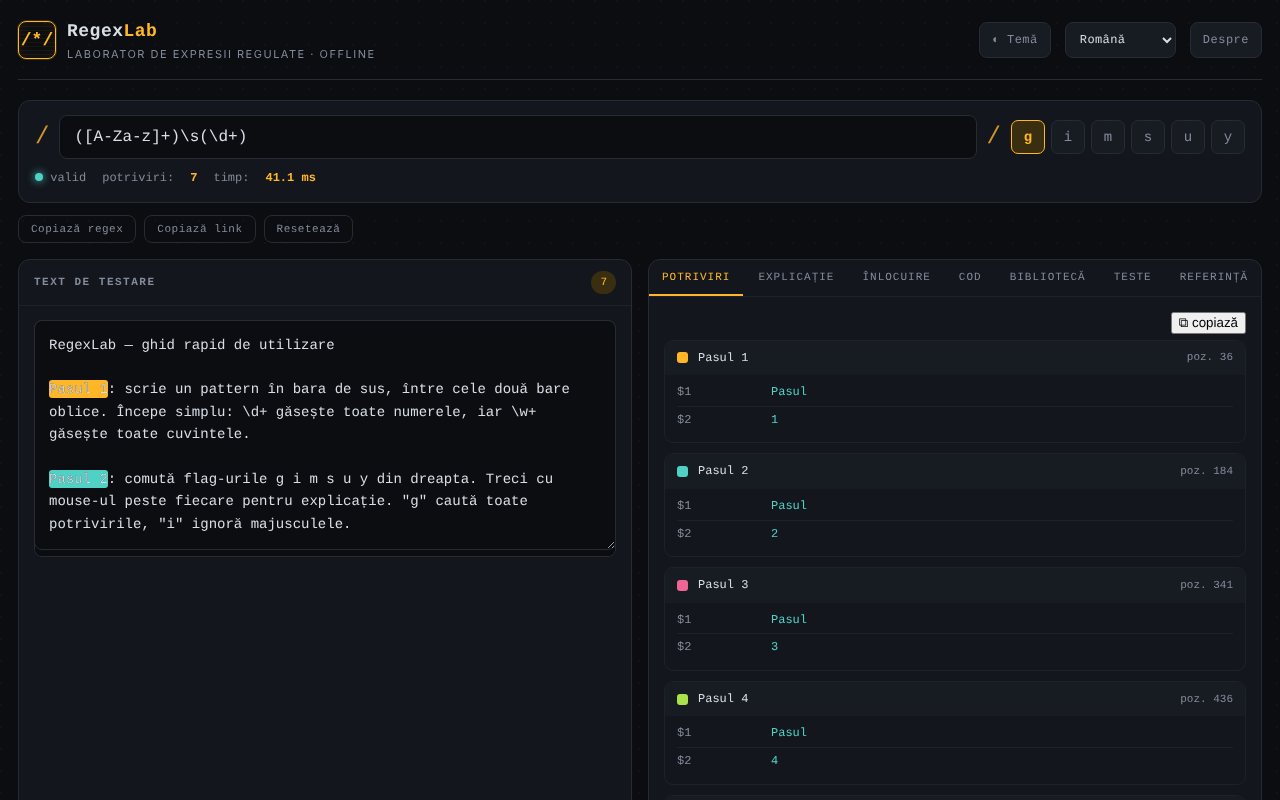
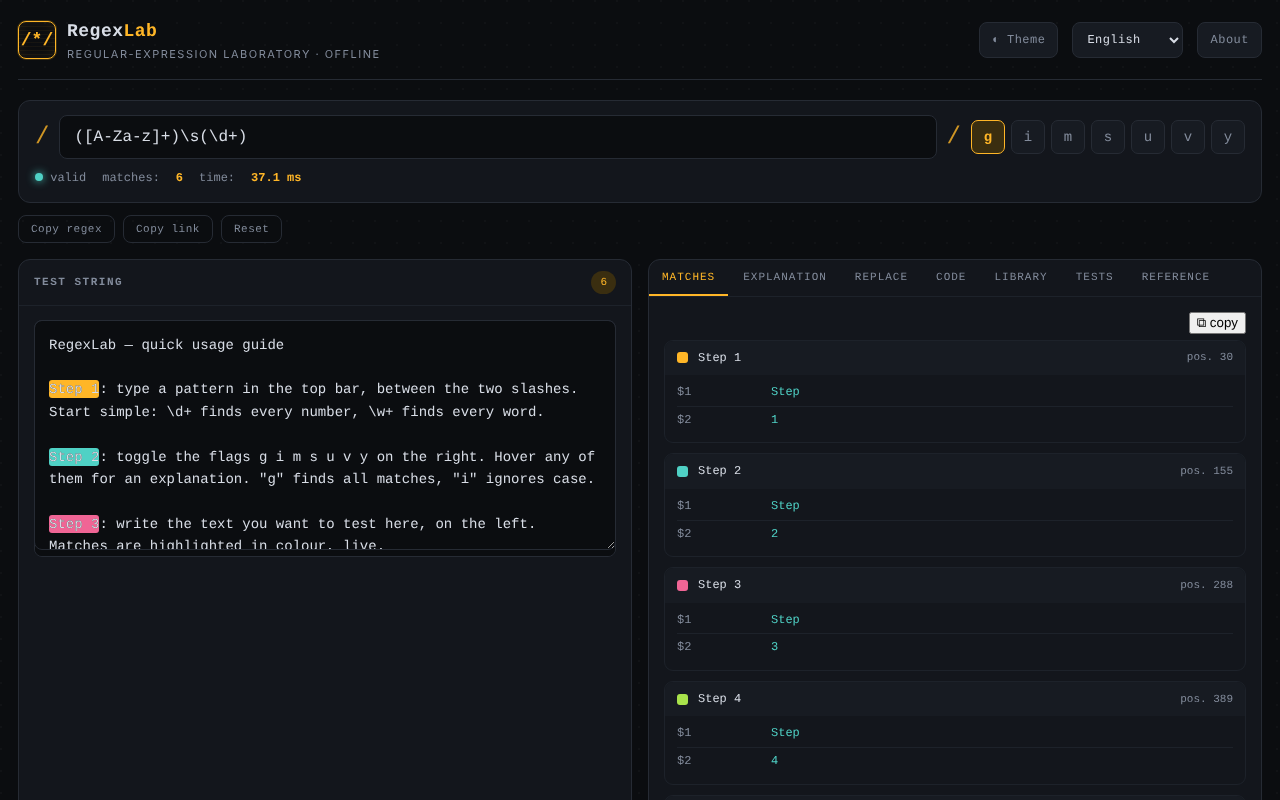
Runda 7 (11 octombrie 2026): defecte noi reparate, hash CSP, îmbunătățiri
Claude-Session: https://claude.ai/code/session_01D2sCEb3hy3nutYexhUfQFs

diff --git a/index.html b/index.html
@@ -28,7 +28,7 @@
 /* Accesibilitate: inel de focus vizibil pentru navigare la tastatură. */
 :focus-visible{outline:2px solid #4a90d9;outline-offset:2px;border-radius:2px}
 </style>
-  <meta http-equiv="Content-Security-Policy" content="default-src 'self'; img-src 'self' data: blob:; style-src 'self' 'unsafe-inline'; font-src 'self' data:; media-src 'self' blob: data:; object-src 'none'; base-uri 'self'; form-action 'self'; worker-src 'self' blob:; script-src 'self' blob: 'sha256-u4oEGoVapwmc1cid3ZVII85xoBo6RU0GowEWWCmSqxY='; connect-src 'self'">
+  <meta http-equiv="Content-Security-Policy" content="default-src 'self'; img-src 'self' data: blob:; style-src 'self' 'unsafe-inline'; font-src 'self' data:; media-src 'self' blob: data:; object-src 'none'; base-uri 'self'; form-action 'self'; worker-src 'self' blob:; script-src 'self' blob: 'sha256-eocbdYZp4ghRezitMZ6vgv1GVEgu/4rnRg8pHjTLSqg='; connect-src 'self'">
 <meta name="viewport" content="width=device-width, initial-scale=1.0">
 <title>RegexLab — regular-expression laboratory</title>
 <meta name="description" content="An offline regular-expression laboratory: live tester, plain-language explanation, replace, code export, pattern library and reference. No server, no account, no telemetry. One HTML file.">
@@ -100,6 +100,7 @@
   .flag .tip{position:absolute;bottom:calc(100% + 8px);left:50%;transform:translateX(-50%);background:var(--bg);
     border:1px solid var(--line);color:var(--txt);font-family:var(--sans);font-size:11px;padding:5px 9px;border-radius:6px;
     white-space:nowrap;opacity:0;pointer-events:none;transition:.12s;z-index:20;box-shadow:0 4px 14px rgba(0,0,0,.3)}
+  .flag:nth-last-child(-n+2) .tip{left:auto;right:0;transform:none}
   .flag:hover .tip{opacity:1}
   .pat-status{margin-top:10px;font-family:var(--mono);font-size:12px;color:var(--muted);display:flex;gap:16px;flex-wrap:wrap;align-items:center}
   .pat-status .err-msg{color:var(--danger)}
@@ -394,7 +395,7 @@ const I18N={
     supportH:'Support the project',supportBody:'If you find it useful and want to support the work, you can do so here:',
     patreon:'Patreon',bmc:'Buy Me a Coffee',visitSite:'Website',contact:'Contact',closeLbl:'Close',
     footL:'single file · zero server · runs entirely in the browser',footR:'built in the spirit of',
-    flagTips:{g:'global — all matches',i:'case-insensitive',m:'multiline — ^ and $ per line',s:'dotAll — . matches newline',u:'unicode',y:'sticky'}},
+    flagTips:{g:'global — all matches',i:'case-insensitive',m:'multiline — ^ and $ per line',s:'dotAll — . matches newline',u:'unicode',v:'unicodeSets — set operations',y:'sticky'}},
   ro:{tagline:'laborator de expresii regulate · offline',themeToggle:'Temă',aboutBtn:'Despre',
     matchesLabel:'potriviri:',timeLabel:'timp:',validS:'valid',errorS:'eroare',subjectTitle:'Text de testare',
     tabMatches:'Potriviri',tabExplain:'Explicație',tabReplace:'Înlocuire',tabCode:'Cod',tabLibrary:'Bibliotecă',tabCheat:'Referință',
@@ -413,7 +414,7 @@ const I18N={
     supportH:'Susține proiectul',supportBody:'Dacă îți este de folos și vrei să susții munca, o poți face aici:',
     patreon:'Patreon',bmc:'Buy Me a Coffee',visitSite:'Site web',contact:'Contact',closeLbl:'Închide',
     footL:'un singur fișier · zero server · rulează complet în browser',footR:'construit în spiritul',
-    flagTips:{g:'global — toate potrivirile',i:'insensibil la majuscule',m:'multilinie — ^ și $ pe fiecare rând',s:'dotAll — . include newline',u:'unicode',y:'sticky'}},
+    flagTips:{g:'global — toate potrivirile',i:'insensibil la majuscule',m:'multilinie — ^ și $ pe fiecare rând',s:'dotAll — . include newline',u:'unicode',v:'unicodeSets — set operations',y:'sticky'}},
   fr:{tagline:'laboratoire d’expressions régulières · hors-ligne',themeToggle:'Thème',aboutBtn:'À propos',
     matchesLabel:'correspondances :',timeLabel:'temps :',validS:'valide',errorS:'erreur',subjectTitle:'Texte de test',
     tabMatches:'Correspondances',tabExplain:'Explication',tabReplace:'Remplacer',tabCode:'Code',tabLibrary:'Bibliothèque',tabCheat:'Référence',
@@ -432,7 +433,7 @@ const I18N={
     supportH:'Soutenir le projet',supportBody:'S’il vous est utile et que vous souhaitez soutenir ce travail, vous pouvez le faire ici :',
     patreon:'Patreon',bmc:'Buy Me a Coffee',visitSite:'Site web',contact:'Contact',closeLbl:'Fermer',
     footL:'fichier unique · zéro serveur · fonctionne entièrement dans le navigateur',footR:'construit dans l’esprit du',
-    flagTips:{g:'global — toutes les correspondances',i:'insensible à la casse',m:'multiligne — ^ et $ par ligne',s:'dotAll — . inclut le saut de ligne',u:'unicode',y:'sticky'}},
+    flagTips:{g:'global — toutes les correspondances',i:'insensible à la casse',m:'multiligne — ^ et $ par ligne',s:'dotAll — . inclut le saut de ligne',u:'unicode',v:'unicodeSets — set operations',y:'sticky'}},
   it:{tagline:'laboratorio di espressioni regolari · offline',themeToggle:'Tema',aboutBtn:'Info',
     matchesLabel:'corrispondenze:',timeLabel:'tempo:',validS:'valido',errorS:'errore',subjectTitle:'Testo di prova',
     tabMatches:'Corrispondenze',tabExplain:'Spiegazione',tabReplace:'Sostituisci',tabCode:'Codice',tabLibrary:'Libreria',tabCheat:'Riferimento',
@@ -451,7 +452,7 @@ const I18N={
     supportH:'Sostieni il progetto',supportBody:'Se ti è utile e vuoi sostenere il lavoro, puoi farlo qui:',
     patreon:'Patreon',bmc:'Buy Me a Coffee',visitSite:'Sito web',contact:'Contatto',closeLbl:'Chiudi',
     footL:'file singolo · zero server · funziona interamente nel browser',footR:'costruito nello spirito di',
-    flagTips:{g:'global — tutte le corrispondenze',i:'senza distinzione maiuscole',m:'multilinea — ^ e $ per riga',s:'dotAll — . include il newline',u:'unicode',y:'sticky'}},
+    flagTips:{g:'global — tutte le corrispondenze',i:'senza distinzione maiuscole',m:'multilinea — ^ e $ per riga',s:'dotAll — . include il newline',u:'unicode',v:'unicodeSets — set operations',y:'sticky'}},
   es:{tagline:'laboratorio de expresiones regulares · sin conexión',themeToggle:'Tema',aboutBtn:'Acerca de',
     matchesLabel:'coincidencias:',timeLabel:'tiempo:',validS:'válido',errorS:'error',subjectTitle:'Texto de prueba',
     tabMatches:'Coincidencias',tabExplain:'Explicación',tabReplace:'Reemplazar',tabCode:'Código',tabLibrary:'Biblioteca',tabCheat:'Referencia',
@@ -470,7 +471,7 @@ const I18N={
     supportH:'Apoya el proyecto',supportBody:'Si te resulta útil y quieres apoyar el trabajo, puedes hacerlo aquí:',
     patreon:'Patreon',bmc:'Buy Me a Coffee',visitSite:'Sitio web',contact:'Contacto',closeLbl:'Cerrar',
     footL:'archivo único · cero servidor · funciona enteramente en el navegador',footR:'construido en el espíritu de',
-    flagTips:{g:'global — todas las coincidencias',i:'sin distinción de mayúsculas',m:'multilínea — ^ y $ por línea',s:'dotAll — . incluye el salto de línea',u:'unicode',y:'sticky'}},
+    flagTips:{g:'global — todas las coincidencias',i:'sin distinción de mayúsculas',m:'multilínea — ^ y $ por línea',s:'dotAll — . incluye el salto de línea',u:'unicode',v:'unicodeSets — set operations',y:'sticky'}},
   pt:{tagline:'laboratório de expressões regulares · offline',themeToggle:'Tema',aboutBtn:'Sobre',
     matchesLabel:'correspondências:',timeLabel:'tempo:',validS:'válido',errorS:'erro',subjectTitle:'Texto de teste',
     tabMatches:'Correspondências',tabExplain:'Explicação',tabReplace:'Substituir',tabCode:'Código',tabLibrary:'Biblioteca',tabCheat:'Referência',
@@ -489,7 +490,7 @@ const I18N={
     supportH:'Apoie o projeto',supportBody:'Se lhe for útil e quiser apoiar o trabalho, pode fazê-lo aqui:',
     patreon:'Patreon',bmc:'Buy Me a Coffee',visitSite:'Site',contact:'Contacto',closeLbl:'Fechar',
     footL:'ficheiro único · zero servidor · corre inteiramente no navegador',footR:'construído no espírito do',
-    flagTips:{g:'global — todas as correspondências',i:'ignora maiúsculas',m:'multilinha — ^ e $ por linha',s:'dotAll — . inclui newline',u:'unicode',y:'sticky'}},
+    flagTips:{g:'global — todas as correspondências',i:'ignora maiúsculas',m:'multilinha — ^ e $ por linha',s:'dotAll — . inclui newline',u:'unicode',v:'unicodeSets — set operations',y:'sticky'}},
   de:{tagline:'Labor für reguläre Ausdrücke · offline',themeToggle:'Thema',aboutBtn:'Über',
     matchesLabel:'Treffer:',timeLabel:'Zeit:',validS:'gültig',errorS:'Fehler',subjectTitle:'Testtext',
     tabMatches:'Treffer',tabExplain:'Erklärung',tabReplace:'Ersetzen',tabCode:'Code',tabLibrary:'Bibliothek',tabCheat:'Referenz',
@@ -508,7 +509,7 @@ const I18N={
     supportH:'Das Projekt unterstützen',supportBody:'Wenn es dir nützlich ist und du die Arbeit unterstützen möchtest, kannst du das hier tun:',
     patreon:'Patreon',bmc:'Buy Me a Coffee',visitSite:'Webseite',contact:'Kontakt',closeLbl:'Schließen',
     footL:'Einzeldatei · null Server · läuft vollständig im Browser',footR:'gebaut im Geist von',
-    flagTips:{g:'global — alle Treffer',i:'Groß-/Kleinschreibung ignorieren',m:'mehrzeilig — ^ und $ pro Zeile',s:'dotAll — . trifft Zeilenumbruch',u:'unicode',y:'sticky'}}
+    flagTips:{g:'global — alle Treffer',i:'Groß-/Kleinschreibung ignorieren',m:'mehrzeilig — ^ und $ pro Zeile',s:'dotAll — . trifft Zeilenumbruch',u:'unicode',v:'unicodeSets — set operations',y:'sticky'}}
 };
 
 /* ---------- localized sample text ---------- */
@@ -517,7 +518,7 @@ const SAMPLE={
 
 Step 1: type a pattern in the top bar, between the two slashes. Start simple: \\d+ finds every number, \\w+ finds every word.
 
-Step 2: toggle the flags g i m s u y on the right. Hover any of them for an explanation. "g" finds all matches, "i" ignores case.
+Step 2: toggle the flags g i m s u v y on the right. Hover any of them for an explanation. "g" finds all matches, "i" ignores case.
 
 Step 3: write the text you want to test here, on the left. Matches are highlighted in colour, live.
 
@@ -534,7 +535,7 @@ Phone: +1 555 010 2030. Meeting on 2026-05-08.`,
 
 Pasul 1: scrie un pattern în bara de sus, între cele două bare oblice. Începe simplu: \\d+ găsește toate numerele, iar \\w+ găsește toate cuvintele.
 
-Pasul 2: comută flag-urile g i m s u y din dreapta. Treci cu mouse-ul peste fiecare pentru explicație. "g" caută toate potrivirile, "i" ignoră majusculele.
+Pasul 2: comută flag-urile g i m s u v y din dreapta. Treci cu mouse-ul peste fiecare pentru explicație. "g" caută toate potrivirile, "i" ignoră majusculele.
 
 Pasul 3: scrie aici, în stânga, textul de testat. Potrivirile se evidențiază colorat, pe loc.
 
@@ -551,7 +552,7 @@ Telefon: 0722 333 444. Cod: #FFB627. Întâlnire pe 2026-05-08 la FTMB Bucureșt
 
 Étape 1 : saisissez un motif dans la barre du haut, entre les deux barres obliques. Commencez simplement : \\d+ trouve tous les nombres, \\w+ trouve tous les mots.
 
-Étape 2 : activez les drapeaux g i m s u y à droite. Survolez-en un pour une explication. "g" trouve toutes les correspondances, "i" ignore la casse.
+Étape 2 : activez les drapeaux g i m s u v y à droite. Survolez-en un pour une explication. "g" trouve toutes les correspondances, "i" ignore la casse.
 
 Étape 3 : écrivez ici, à gauche, le texte à tester. Les correspondances sont surlignées en couleur, en direct.
 
@@ -568,7 +569,7 @@ Téléphone : +33 6 12 34 56. Réunion le 2026-05-08.`,
 
 Passo 1: scrivi un pattern nella barra in alto, tra le due barre oblique. Inizia semplice: \\d+ trova tutti i numeri, \\w+ trova tutte le parole.
 
-Passo 2: attiva i flag g i m s u y a destra. Passa il mouse su ciascuno per una spiegazione. "g" trova tutte le corrispondenze, "i" ignora le maiuscole.
+Passo 2: attiva i flag g i m s u v y a destra. Passa il mouse su ciascuno per una spiegazione. "g" trova tutte le corrispondenze, "i" ignora le maiuscole.
 
 Passo 3: scrivi qui, a sinistra, il testo da provare. Le corrispondenze vengono evidenziate a colori, in tempo reale.
 
@@ -585,7 +586,7 @@ Telefono: +39 333 010 2030. Riunione il 2026-05-08.`,
 
 Paso 1: escribe un patrón en la barra superior, entre las dos barras. Empieza simple: \\d+ encuentra todos los números, \\w+ encuentra todas las palabras.
 
-Paso 2: activa los flags g i m s u y a la derecha. Pasa el ratón por cada uno para ver una explicación. "g" encuentra todas las coincidencias, "i" ignora mayúsculas.
+Paso 2: activa los flags g i m s u v y a la derecha. Pasa el ratón por cada uno para ver una explicación. "g" encuentra todas las coincidencias, "i" ignora mayúsculas.
 
 Paso 3: escribe aquí, a la izquierda, el texto a probar. Las coincidencias se resaltan en color, en vivo.
 
@@ -602,7 +603,7 @@ Teléfono: +34 600 010 203. Reunión el 2026-05-08.`,
 
 Passo 1: escreva um padrão na barra de cima, entre as duas barras. Comece simples: \\d+ encontra todos os números, \\w+ encontra todas as palavras.
 
-Passo 2: ative as flags g i m s u y à direita. Passe o rato sobre cada uma para uma explicação. "g" encontra todas as correspondências, "i" ignora maiúsculas.
+Passo 2: ative as flags g i m s u v y à direita. Passe o rato sobre cada uma para uma explicação. "g" encontra todas as correspondências, "i" ignora maiúsculas.
 
 Passo 3: escreva aqui, à esquerda, o texto a testar. As correspondências são realçadas a cor, ao vivo.
 
@@ -619,7 +620,7 @@ Telefone: +351 910 010 203. Reunião a 2026-05-08.`,
 
 Schritt 1: Gib oben in der Leiste ein Muster ein, zwischen den beiden Schrägstrichen. Fang einfach an: \\d+ findet alle Zahlen, \\w+ findet alle Wörter.
 
-Schritt 2: Schalte rechts die Flags g i m s u y um. Fahre über jedes für eine Erklärung. "g" findet alle Treffer, "i" ignoriert Groß-/Kleinschreibung.
+Schritt 2: Schalte rechts die Flags g i m s u v y um. Fahre über jedes für eine Erklärung. "g" findet alle Treffer, "i" ignoriert Groß-/Kleinschreibung.
 
 Schritt 3: Schreibe hier links den zu testenden Text. Treffer werden farbig hervorgehoben, in Echtzeit.
 
@@ -1048,7 +1049,7 @@ function doMatch(pattern,flags,subject,replaceStr,tests){
       var groups=[];for(var k=1;k<m.length;k++){groups.push(m[k]===undefined?null:m[k]);}
       var named=null;if(m.groups){named={};for(var key in m.groups){named[key]=m.groups[key]===undefined?null:m.groups[key];}}
       res.matches.push({index:m.index,text:m[0],groups:groups,named:named});
-      if(m.index===re.lastIndex){var cc=subject.charCodeAt(re.lastIndex);re.lastIndex+=(re.unicode&&cc>=0xD800&&cc<=0xDBFF&&re.lastIndex+1<subject.length)?2:1;}
+      if(m.index===re.lastIndex){var cc=subject.charCodeAt(re.lastIndex);re.lastIndex+=((re.unicode||re.unicodeSets)&&cc>=0xD800&&cc<=0xDBFF&&re.lastIndex+1<subject.length)?2:1;}
       if(++guard>20000){res.capped=true;break;}
     }
   }catch(e){res.error=e.message;return res;}
@@ -1074,7 +1075,7 @@ function spawnWorker(){
 /* =========================================================
    STATE & DOM
    ========================================================= */
-const FLAGS=['g','i','m','s','u','y'];
+const FLAGS=['g','i','m','s','u','v','y'];
 const TIMEOUT=1500;
 const RENDER_CAP=500;
 let LANG='en';
@@ -1090,7 +1091,7 @@ const statMatchesEl=$('statMatches'),statTimeEl=$('statTime'),leftCountEl=$('lef
 
 function escHTML(s){return String(s).replace(/[&<>]/g,c=>({'&':'&amp;','<':'&lt;','>':'&gt;'}[c]));}
 function escAttr(s){return escHTML(s).replace(/"/g,'&quot;');}
-function flagStr(forScan){let f=[...FLAGS].filter(x=>activeFlags.has(x)).join('');if(forScan){f=f.replace('y','');if(f.indexOf('g')<0)f+='g';}return f;}
+function flagStr(forScan){let f=[...FLAGS].filter(x=>activeFlags.has(x)&&!(x==='u'&&activeFlags.has('v'))).join('');if(forScan){f=f.replace('y','');if(f.indexOf('g')<0)f+='g';}return f;}
 
 /* ---------- flags ---------- */
 function buildFlags(){
@@ -1099,7 +1100,7 @@ function buildFlags(){
     const b=document.createElement('button');
     b.className='flag'+(activeFlags.has(f)?' on':'');b.dataset.flag=f;b.type='button';
     b.innerHTML=`${f}<span class="tip">${escHTML(I18N[LANG].flagTips[f])}</span>`;
-    b.onclick=()=>{activeFlags.has(f)?activeFlags.delete(f):activeFlags.add(f);b.classList.toggle('on');persist();runMatch();};
+    b.onclick=()=>{if(activeFlags.has(f))activeFlags.delete(f);else{activeFlags.add(f);if(f==='u')activeFlags.delete('v');if(f==='v')activeFlags.delete('u');}buildFlags();persist();runMatch();};
     c.appendChild(b);
   });
 }
@@ -1324,11 +1325,11 @@ function codeSnippets(pattern,flags){
   const jsLit=escSlash(pattern)||'(?:)';
   // Python: raw string, do NOT double backslashes; pick a quote not present
   const pyStr=p=>p.indexOf('"')<0?'r"'+p+'"':(p.indexOf("'")<0?"r'"+p+"'":'"'+p.replace(/\\/g,'\\\\').replace(/"/g,'\\"')+'"');
-  const pf=[];if(flags.includes('i'))pf.push('re.I');if(flags.includes('m'))pf.push('re.M');if(flags.includes('s'))pf.push('re.S');if(flags.includes('u'))pf.push('re.U');
+  const pf=[];if(flags.includes('i'))pf.push('re.I');if(flags.includes('m'))pf.push('re.M');if(flags.includes('s'))pf.push('re.S');if(/[uv]/.test(flags))pf.push('re.U');
   const pflags=pf.length?', '+pf.join('|'):'';
   // PHP: ~ delimiter (escape ~ for regex, ' for the single-quoted string)
   const phpPat=phpQuote(pattern);
-  const phpFlags=flags.replace('g','').replace('y','');
+  const phpFlags=flags.replace('g','').replace('y','').replace('v','u');
   // Go: inline (?ims) flags; raw backtick string, or quoted fallback if a backtick is present
   const goInline=['i','m','s'].filter(f=>flags.includes(f)).join('');
   const goBody=(goInline?'(?'+goInline+')':'')+convNamed(pattern,false);
@@ -1336,7 +1337,7 @@ function codeSnippets(pattern,flags){
   return {
     JavaScript:`const re = /${jsLit}/${flags};\nconst matches = ${flags.includes('g')?'[...str.matchAll(re)]':'str.match(re)'};`,
     Python:`import re\npat = re.compile(${pyStr(convNamed(pattern,true))}${pflags})\nmatches = pat.findall(text)`+(/\\[pP]\{/.test(pattern)?'\n# Note: the built-in re module has no \\p{...}; use the third-party regex module.':'')+(/\(\?<(?![=!])/.test(pattern)?'\n# Named groups rewritten as (?P<name>...).':''),
-    PHP:`$re = '~${phpPat}~${phpFlags}';\npreg_match_all($re, $text, $matches);`+(/\\[pP]\{/.test(pattern)&&!flags.includes('u')?'\n// Note: \\p{...} needs the u modifier in PCRE.':''),
+    PHP:`$re = '~${phpPat}~${phpFlags}';\npreg_match_all($re, $text, $matches);`+(/\\[pP]\{/.test(pattern)&&!/[uv]/.test(flags)?'\n// Note: \\p{...} needs the u modifier in PCRE.':''),
     Go:`re := regexp.MustCompile(${goStr})\nmatches := re.FindAllString(text, -1)`+(/\(\?<?[=!]|\\[1-9]|\\k</.test(pattern)?'\n// Note: Go (RE2) has no lookarounds or backreferences; this pattern will not compile.':'')
   };
 }

diff --git a/README.md b/README.md
@@ -14,7 +14,7 @@ RegexLab este un instrument pentru scrierea și testarea expresiilor regulate Ja
 
 ## Funcții
 
-- Câmp pentru model (`/.../`), fanioane `g i m s u y`, indicator de validitate („valid” / eroare), număr de potriviri și timp de execuție.
+- Câmp pentru model (`/.../`), fanioane `g i m s u v y` (`u` și `v` se exclud reciproc), indicator de validitate („valid” / eroare), număr de potriviri și timp de execuție.
 - Zona **Test string** cu evidențierea potrivirilor.
 - Fila **Tests**: cazuri de test, un caz pe linie — `+ text` trebuie să se potrivească, `- text` nu; se afișează reușit/eșuat pe caz și totalul (evaluate în același Web Worker, cu aceeași limită de timp).
 - Avertisment static (euristic) pentru cuantificatori imbricați, înainte de a se ajunge la timeout.
@@ -46,6 +46,9 @@ RegexLab este un instrument pentru scrierea și testarea expresiilor regulate Ja
 Descarcă `index.html` și deschide-l în browser; funcționează fără internet.
 
 ## Istoric / Changelog
+
+### 11 octombrie 2026 (a treia trecere)
+- Fanionul `v` (unicodeSets: operații pe mulțimi, ex. `[\p{L}--[a-z]]`); `u` și `v` se exclud reciproc, iar fragmentele Python/PHP îl tratează ca `u`. CSP: hash recalculat.
 
 ### 11 octombrie 2026 (a doua trecere)
 - Filă **Tests** cu cazuri `+`/`-`; avertisment euristic pentru cuantificatori imbricați; fragmente Python/Go/PHP corectate pentru grupuri numite și cu note de compatibilitate; texte noi în cele 7 limbi. CSP: hash recalculat.
